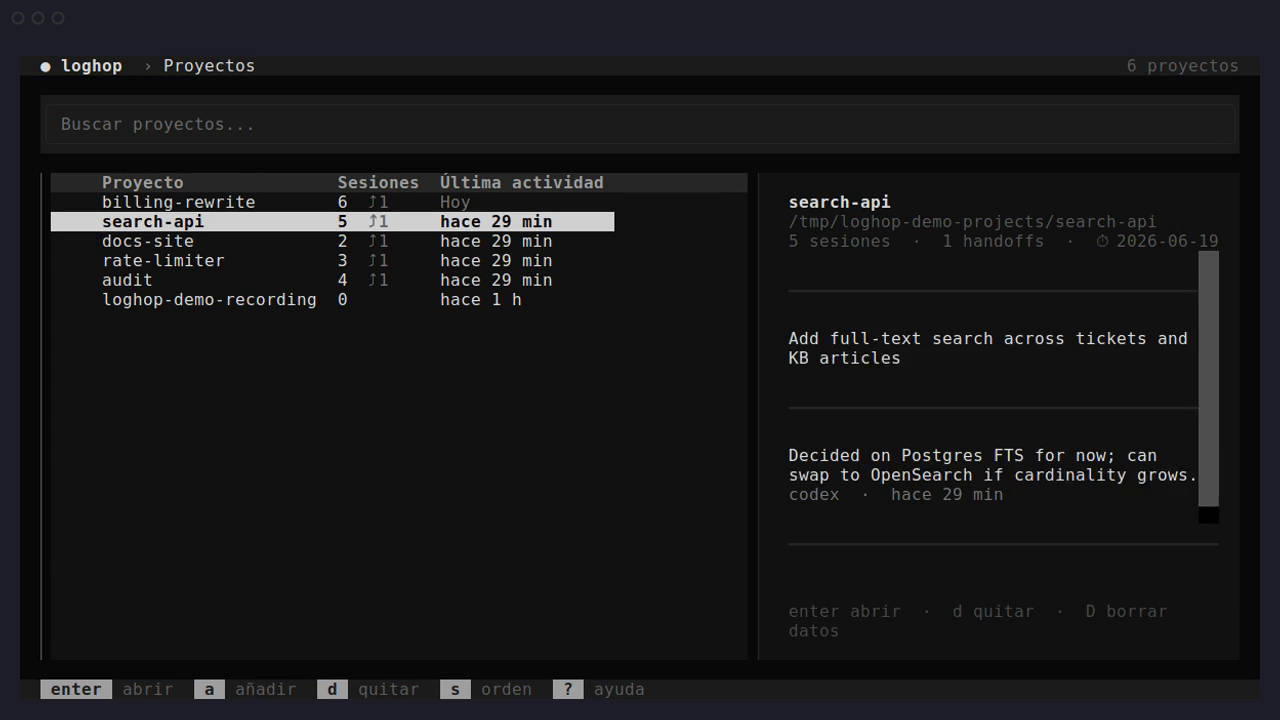
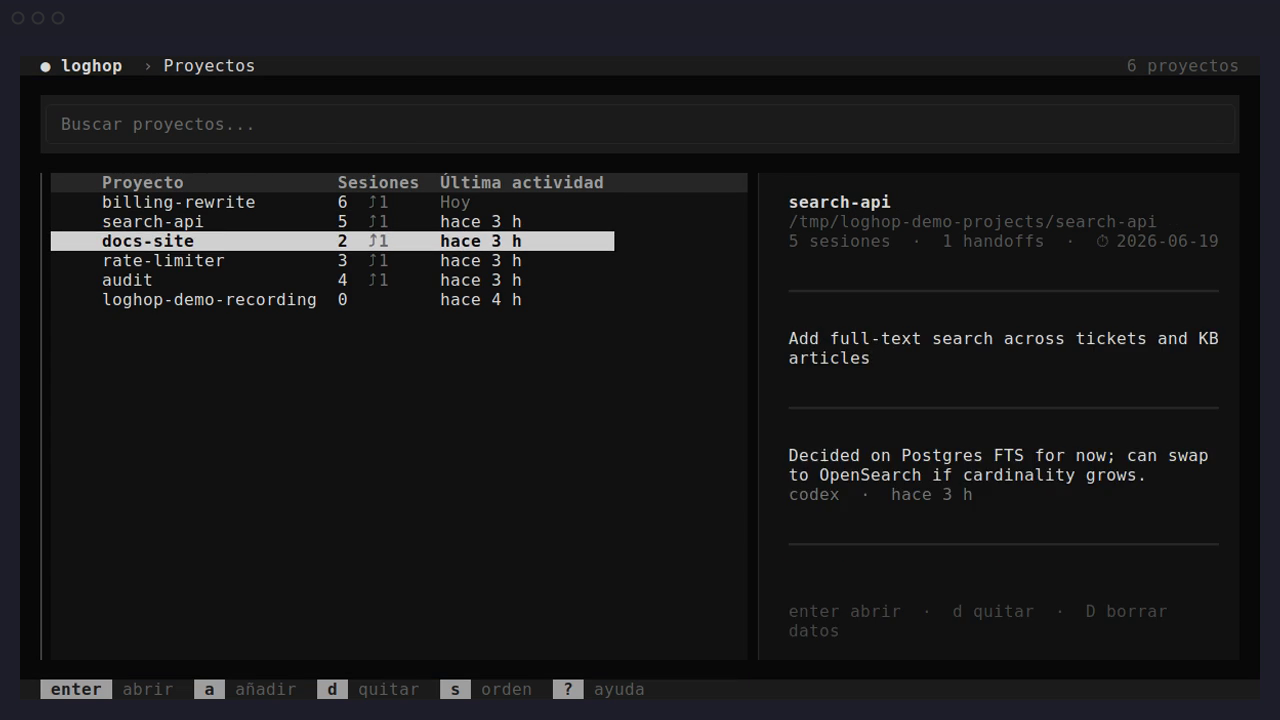
chore(repo): replace maintainer identity with public handle
Personal name and email were leaking in three places: the copyright line
in `LICENSE`, the author block in `CITATION.cff`, and the contact email
in `pyproject.toml` (which PyPI shows in the package sidebar). The same
personal email also appeared as the git author on older commits, and the
GitHub-generated noreply was a different but still user-attributable
address.

This commit makes the publicly displayed identity `Ruleh <[email redacted]>`
everywhere it leaks today:

- `LICENSE`: copyright line now reads "Copyright (c) 2026 Ruleh".
- `CITATION.cff`: author block uses a single `name: "Ruleh"` field in
  both the main and preferred-citation entries (CFF 1.2 allows `name`
  as an alternative to family/given names for mononymous authors).
- `pyproject.toml`: `authors` is now `[{ name = "Ruleh", email = "[email redacted]" }]`.
  PyPI will display this in the package metadata sidebar.
- `.mailmap`: canonical identity is now `Ruleh <[email redacted]>`, with
  the old personal email and the GitHub noreply as aliases. `git shortlog`,
  `git blame`, and the GitHub Contributors tab collapse every historical
  commit to "Ruleh". The raw commit objects are unchanged (no SHA rewrite,
  no force-push, no PR reference churn).
- `tests/test_release_hygiene.py`: the mailmap-hygiene assertion now
  checks the new canonical identity and ensures the personal email only
  appears inside a mailmap alias line (i.e. it cannot leak elsewhere).
[…]

Changed region(s): [[0.0312, 0.275, 0.5, 0.4278], [0.625, 0.3361, 0.9688, 0.7028], [0.5938, 0.4889, 0.7188, 0.5194]]

diff --git a/tests/test_release_hygiene.py b/tests/test_release_hygiene.py
@@ -79,7 +79,16 @@ def test_contributing_links_to_issue_chooser_not_deleted_markdown_templates() ->
 
 def test_mailmap_normalizes_maintainer_identity() -> None:
     body = _repo_path(".mailmap").read_text(encoding="utf-8")
-    assert "elruleh <[email redacted]> <[email redacted]>" in body
+    # Old personal email must collapse to the canonical identity.
+    assert "Ruleh <[email redacted]>" in body
+    assert "<[email redacted]>" in body
+    # The raw personal email must not appear in a non-mapped form.
+    raw = body.count("[email redacted]")
+    mapped = body.count("<[email redacted]>")
+    assert raw == mapped, (
+        f"[email redacted] appears {raw}x but only {mapped}x inside <>; "
+        "expected it only inside a mailmap alias line"
+    )
 
 
 def test_citation_cff_has_no_placeholder_orcid() -> None:

diff --git a/tests/test_install.py b/tests/test_install.py
@@ -21,14 +21,14 @@ def _write(path: Path, content: str) -> None:
 
 class TestPromptInstall:
     def test_creates_prompt_file_and_includes_in_agents(self) -> None:
-        _write(Path.home() / ".codex" / "AGENTS.md", "@/home/raul/.codex/RTK.md\n")
+        _write(Path.home() / ".codex" / "AGENTS.md", "@/home/user/.codex/RTK.md\n")
         reports = install_loghop_prompt(targets=("codex",))
         actions = {r.path.name: r.action for r in reports}
         assert actions["loghop-prompt.md"] in {"created", "updated"}
         assert actions["AGENTS.md"] == "updated"
 
         agents_body = (Path.home() / ".codex" / "AGENTS.md").read_text()
-        assert "@/home/raul/.codex/RTK.md" in agents_body  # RTK preserved
+        assert "@/home/user/.codex/RTK.md" in agents_body  # RTK preserved
         assert str(Path.home() / ".loghop" / "loghop-prompt.md") in agents_body
 
     def test_idempotent(self) -> None:

diff --git a/tests/test_transcripts.py b/tests/test_transcripts.py
@@ -159,7 +159,7 @@ def test_codex_reader_parses_agent_message_payload_without_duplicate_message(
 
 
 def test_claude_slug_matches_path() -> None:
-    assert _slug_for_cwd(Path("/home/raul/projects/loghop")) == "-home-raul-projects-loghop"
+    assert _slug_for_cwd(Path("/home/user/projects/loghop")) == "-home-user-projects-loghop"
 
 
 def test_claude_reader_finds_and_parses(tmp_path: Path, monkeypatch: pytest.MonkeyPatch) -> None: